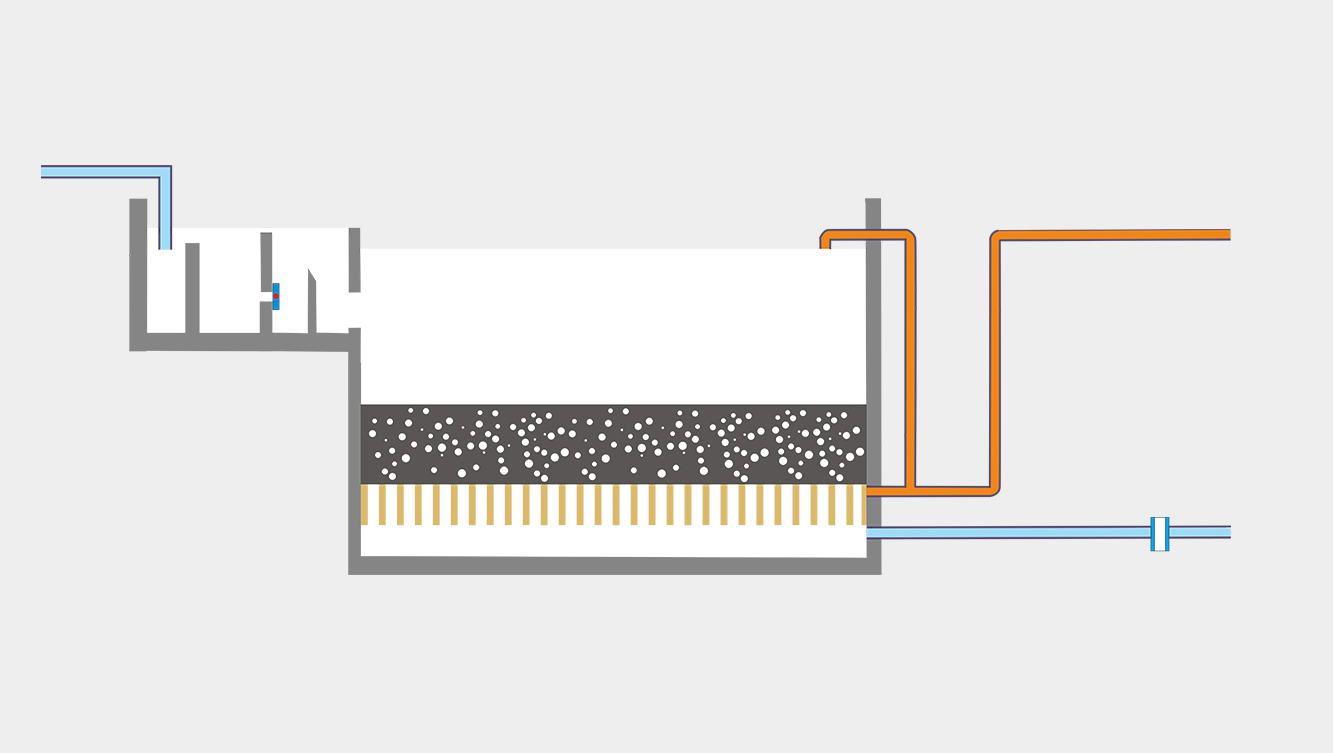
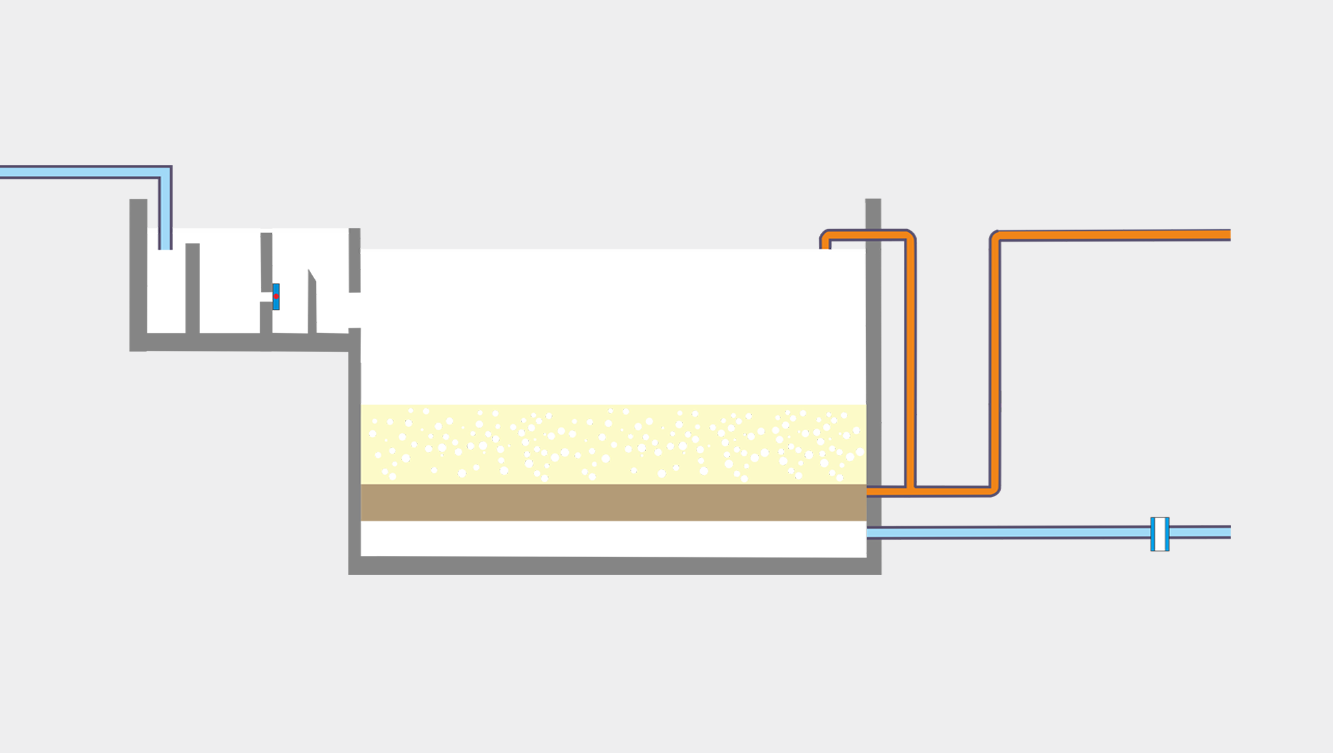
动画显示部分修改： 1、更新了滤料部分的图片修改 2、更新了有图片结构变化引起的动画 3、修改了一些字体，纠正了一些显示问题

diff --git a/WebRoot/js/hx.js b/WebRoot/js/hx.js
@@ -20,17 +20,17 @@ oCanvas.domReady(function () {
     });
     var SC03=createSC({
         parent:canvas,
-        x:528,y:473,height:160,width:53,trail_flag:0,speed:speed_SC,color:color_SC
+        x:528,y:537,height:96,width:53,trail_flag:0,speed:speed_SC,color:color_SC
     });
     var SC031=createSC({
         parent:canvas,
-        x:528,y:367,height:123,width:340,trail_flag:0,speed:speed_SC*0.35,color:color_SC
+        x:528,y:367,height:187,width:340,trail_flag:0,speed:speed_SC*0.55,color:color_SC
     });
     var SC04 = canvas.display.SC_show_down({
         x: 600,
-        y: 474,
+        y: 537,
         Width: 265,
-        Height: 158,
+        Height: 94,
         height_now: 0,
         trail_flag: 0,
         t: 0,
@@ -90,7 +90,7 @@ oCanvas.domReady(function () {
 //添加箭头
     var arrow_0 = canvas.display.sprite({
         x: 537,
-        y: 241,
+        y: 271,
         image: "image/water-arrow/down.png",
         generate: false,
         frames: [
@@ -100,7 +100,7 @@ oCanvas.domReady(function () {
     }).scale(1,2).add();
     var arrow_1 = canvas.display.sprite({
         x: 568,
-        y: 450,
+        y: 514,
         image: "image/water-arrow/you.png",
         generate: false,
         frames: [
@@ -111,7 +111,7 @@ oCanvas.domReady(function () {
 
     var arrow_2 = canvas.display.sprite({
         x: 639,
-        y: 495,
+        y: 549,
         image: "image/water-arrow/down.png",
         generate: false,
         frames: [
@@ -121,7 +121,7 @@ oCanvas.domReady(function () {
     }).add();
     var arrow_21=canvas.display.sprite({
         x: 699,
-        y: 495,
+        y: 549,
         image: "image/water-arrow/down.png",
         generate: false,
         frames: [
@@ -131,7 +131,7 @@ oCanvas.domReady(function () {
     }).add();
     var arrow_22=canvas.display.sprite({
         x: 759,
-        y: 495,
+        y: 549,
         image: "image/water-arrow/down.png",
         generate: false,
         frames: [
@@ -141,7 +141,7 @@ oCanvas.domReady(function () {
     }).add();
     var arrow_23=canvas.display.sprite({
         x: 819,
-        y: 495,
+        y: 549,
         image: "image/water-arrow/down.png",
         generate: false,
         frames: [

diff --git a/WebRoot/js/VL.js b/WebRoot/js/VL.js
@@ -33,8 +33,22 @@ oCanvas.domReady(function () {
     //    parent:canvas,
     //    x:359,y:207,height:61,width:39,trail_flag:0,speed:speed_SC,color:color_SC
     //});
+    var SC04 = canvas.display.SC_show_down({
+        x: 310,
+        y: 274,
+        Width: 39,
+        Height: 61,
+        height_now: 0,
+        trail_flag: 0,
+        t: 7540,
+        speed:speed_SC,
+        fill:color_SC,
+        full:0,
+        start:0
+    });
+    canvas.addChild(SC04);
     var SC03 = canvas.display.SC_show_down({
-        x: 359,
+        x: 357,
         y: 342,
         Width: 509,
         Height: 230,
@@ -134,7 +148,7 @@ oCanvas.domReady(function () {
     var GD00=createGD({
         parent:canvas,
         cells:[
-            {x_cell: 40,y_cell: 172},
+            {x_cell: 0,y_cell: 172},
             {x_cell: 164,y_cell: 172},
             {x_cell: 164,y_cell: 249}
         ],
@@ -202,6 +216,7 @@ oCanvas.domReady(function () {
         SC01.advance();
         SC02.advance();
         SC03.advance();
+        SC04.advance();
         if(GD00.full==1){
             SC01.start=1;
             arrow_0.start();
@@ -210,8 +225,11 @@ oCanvas.domReady(function () {
         	SC02.start = 1;
         }
         if(SC02.full==1){
+            SC04.start = 1;
             arrow_1.start();
             arrow_2.start();
+        }
+        if(SC04.full==1){
             arrow_3.start();
             arrow_4.start();
             arrow_5.start();

diff --git a/WebRoot/css/top_down.css b/WebRoot/css/top_down.css
@@ -32,6 +32,7 @@ ul li{
 .top{
     width:100%;
     font-size:18px;
+    font-weight: bolder;
     background:url(../images/09.png) repeat-x;
     z-index: 999;
 }
@@ -70,7 +71,7 @@ ul li{
     text-transform: uppercase;
 }
 .nav__menu li{
-    text-shadow :0px 1px 2px #AAA;
+    text-shadow :1px 1px 2px #AAA;
     width:150px;
     padding-right:40px;
     height:35px;
@@ -156,8 +157,8 @@ ul li{
     border-bottom:1px solid #FFF;
     line-height:30px;
     height:30px;
-
-    font-size:14px;
+    font-weight: bolder;
+    font-size:16px;
 }
 .Secondary_menu ul li{
     height:30px;
@@ -193,7 +194,7 @@ ul li{
     background: #eeeeed;
     padding-top: 13px;
     font-size: 18px;
-    border-top: 1px solid #b6b6b6;
+    /*border-top: 1px solid #b6b6b6;*/
     color:#989898;
 }
 .copy{

diff --git a/WebRoot/js/JJC.js b/WebRoot/js/JJC.js
@@ -289,8 +289,7 @@ oCanvas.domReady(function () {
             SC01.start=1;
             arrow_1.frame=2;
             arrow_2.frame=2;
-            arrow_3.start();
-            arrow_4.start();
+
             arrow_5.start();
             arrow_6.start();
 
@@ -302,6 +301,8 @@ oCanvas.domReady(function () {
         if(SC01.height_now>=SC01.Height*0.8){
             arrow_81.start();
             arrow_91.start();
+            arrow_3.start();
+            arrow_4.start();
         }
         if(SC01.full==1){
         	GD02.paused = 1;

diff --git a/WebRoot/css/bootstrap.min.css b/WebRoot/css/bootstrap.min.css
@@ -5549,7 +5549,8 @@ a.thumbnail.active, a.thumbnail:focus, a.thumbnail:hover {
 
 .list-group {
     padding-left: 0;
-    margin-bottom: 20px
+    margin-bottom: 20px ;
+    font-weight: bolder;
 }
 
 .list-group-item {
@@ -5558,7 +5559,7 @@ a.thumbnail.active, a.thumbnail:focus, a.thumbnail:hover {
     padding: 10px 15px;
     margin-bottom: -1px;
     background-color: #fff;
-    border: 1px solid #ddd
+    border: 2px solid #ddd
 }
 
 .list-group-item:first-child {

diff --git a/WebRoot/js/hxt.js b/WebRoot/js/hxt.js
@@ -15,7 +15,7 @@ oCanvas.domReady(function () {
  });
  var SC02=createSC({
      parent:canvas,
-     x:570,y:413,height:246,width:418,trail_flag:0,speed:speed_SC,color:color_SC
+     x:570,y:393,height:246,width:418,trail_flag:0,speed:speed_SC,color:color_SC
  });
     var SC03=createSC({
         parent:canvas,
